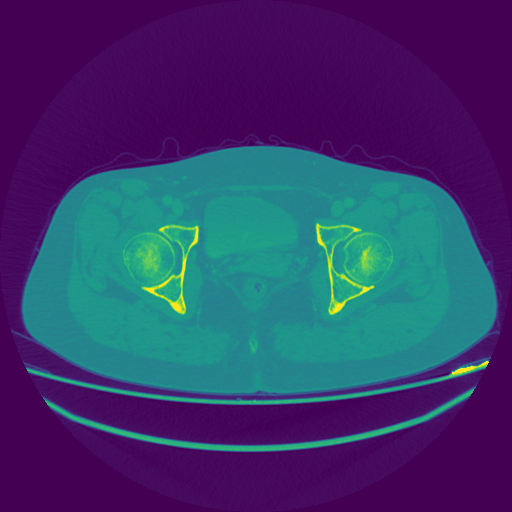
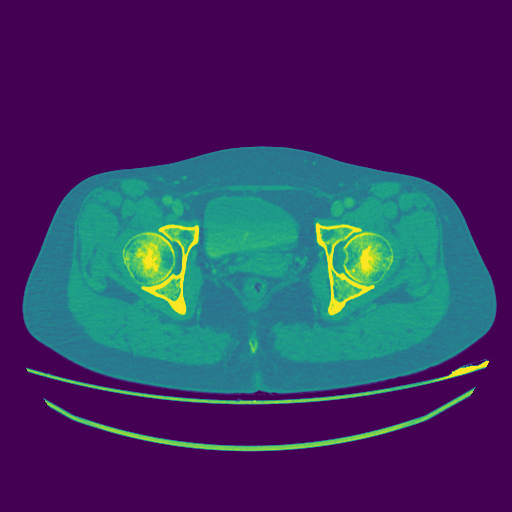
Unet-seg-train is OK

diff --git a/utils/data_loading.py b/utils/data_loading.py
@@ -14,7 +14,6 @@ import numpy as np
 import os
 from skimage.transform import resize
 from PIL import Image
-import Augmentation
 import random
 
 class BasicDataset(Dataset):
@@ -76,7 +75,8 @@ class BasicDataset(Dataset):
 
         img = self.preprocess(img, self.scale, is_mask=False)
         mask = self.preprocess(mask, self.scale, is_mask=True)
-
+        img = img.astype(float)
+        mask = mask.astype(float)
         return {
             'image': torch.as_tensor(img.copy()).float().contiguous(),
             'mask': torch.as_tensor(mask.copy()).long().contiguous()
@@ -86,147 +86,6 @@ class BasicDataset(Dataset):
 class CarvanaDataset(BasicDataset):
     def __init__(self, images_dir, masks_dir, scale=1):
         super().__init__(images_dir, masks_dir, scale, mask_suffix='_mask')
-
-
-
-
-
-
-
-# data loader1
-def default_loader1(path):
-    IMG_PX_SIZE = 224
-    data = sitk.GetArrayFromImage(sitk.ReadImage(path))
-
-    data = resize(data, (IMG_PX_SIZE, IMG_PX_SIZE))
-    data = data[np.newaxis, :]
-    #print(type(data))
-
-    img2 = np.concatenate((data, data, data), axis=0)
-
-    #print(type(img2),img2.shape)
-
-    img2 = Augmentation.standardization(img2)
-    img2 = Augmentation.verticalFlip(img2)
-    img2 = Augmentation.horizontalFlip(img2)
-    #print(data.shape)
-    return img2
-#data loader2
-
-def png_loader(path):
-    img = Image.open(path)
-    return img
-
-class LNM_trainDataset(Dataset):
-    def __init__(self, data_path,root_path,type='normal', transform=None,target_transform=None, loader= default_loader1):
-        data = pd.read_csv(data_path)
-        imgs = []
-        label_1=[]
-        label_0 = []
-
-        for line in range(data.shape[0]):
-            label = data.loc[line, 'Class']
-            if label ==1:
-                label_1.append(line)
-            else:
-                label_0.append(line)
-        random.shuffle(label_0)
-        random.shuffle(label_1)
-        #root_path = '/data/lyj/LNM_tumor/data/image_nrrd-100/'
-        #------- 正常数据加载 -------- #
-        if type=='normal':
-            for index in range(len(label_0)):
-                i = label_0[index]
-                path_part = root_path+data.loc[i,'name']+'.nrrd'
-                label_part = data.loc[i,'Class']
-                #print(label_part,i)
-                imgs.append((path_part,float(label_part)))
-            for index in range(len(label_1)):
-                i = label_1[index]
-                path_part = root_path+data.loc[i,'name']+'.nrrd'
-                label_part = data.loc[i,'Class']
-                #print(label_part, i)
-                imgs.append((path_part,float(label_part)))
-
-        # ------- 过采样训练加载（少数样本重复采集，直到和多数样本数量相同） -------- #
-        if type=='over-sample':
-            print(type)
-            for index in range(len(label_0)):
-                i = label_0[index]
-                path_part = root_path + data.loc[i, 'name'] + '.nrrd'
-                label_part = data.loc[i, 'Class']
-                imgs.append((path_part, float(label_part)))
-
-                ind = index%len(label_1)
-                #print(ind,len())
-                i = label_1[ind]
-                path_part = root_path + data.loc[i, 'name'] + '.nrrd'
-                label_part = data.loc[i, 'Class']
-                imgs.append((path_part, float(label_part)))
-
-        # ------- 欠采样训练加载（不完全采集多数样本，使得多数样本数量相同） -------- #
-        if type=='under-sample':
-            for index in range(len(label_1)):
-                i = label_0[index]
-                path_part = root_path + data.loc[i, 'name'] + '.nrrd'
-                label_part = data.loc[i, 'Class']
-                imgs.append((path_part, float(label_part)))
-
-                ind = index
-                i = label_1[ind]
-                path_part = root_path + data.loc[i, 'name'] + '.nrrd'
-                label_part = data.loc[i, 'Class']
-                imgs.append((path_part, float(label_part)))
-
-        self.imgs = imgs
-        self.transform = transform
-        self.target_transform = target_transform
-        self.loader = loader
-
-    def __getitem__(self, index):
-        img_path,label = self.imgs[index]
-        img = self.loader(img_path)
-        #if label==1:
-        if self.transform is not None:
-            img = self.transform(img)
-            #print(type(img))
-        return img,int(label)
-
-    def __len__(self):
-        return len(self.imgs)
-
-
-
-
-class LNM_testDataset(Dataset):
-    def __init__(self, data_path, root_path, transform=None, target_transform=None, loader= default_loader1):
-        data = pd.read_csv(data_path)
-        #f = open('/data/lyj/LMN07/result/check.csv','a+')
-        #f.write('name,label'+'\n')
-        imgs = []
-        #root_path = '/data/lyj/LNM_tumor/data/image_nrrd-100'
-        for i in range(data.shape[0]):
-            path_part = root_path+str(data.loc[i,'name'])+'.nrrd'
-            label_part = data.loc[i,'Class']
-            imgs.append((path_part,float(label_part)))
-            #f.write(path_part+','+str(label_part)+'\n')
-        #f.close()
-        self.imgs = imgs
-        self.transform = transform
-        self.target_transform = target_transform
-        self.loader = loader
-
-    def __getitem__(self, index):
-        img_path,label = self.imgs[index]
-        img = self.loader(img_path)
-        #if label==1:
-        if self.transform is not None:
-            img = self.transform(img)
-            #print(type(img))
-        return img,int(label)
-
-    def __len__(self):
-        return len(self.imgs)
 
 
 class LNM_Dataset(BasicDataset):
@@ -252,9 +111,15 @@ class LNM_Dataset(BasicDataset):
         img_ndarray = np.asarray(pil_img)
 
         if not is_mask:
-            #####归一化到0-1  尝试范围
-            # img_ndarray = img_ndarray / 255
-            img_ndarray = img_ndarray / img_ndarray.max()
+            #####归一化到0-1  尝试范围  +-512
+            img_ndarray = img_ndarray - 1024 
+            img_ndarray[img_ndarray < -512] = -512.
+            img_ndarray[img_ndarray > 512] = 512.
+            img_ndarray = img_ndarray + 512. 
+            img_ndarray = img_ndarray / 1024
+
+            #### 范围-1024~+1024
+            # img_ndarray = img_ndarray / img_ndarray.max()
             
             if img_ndarray.ndim == 2:
                 img_ndarray = img_ndarray[np.newaxis, ...]

diff --git a/train.py b/train.py
@@ -5,7 +5,7 @@ import sys
 import tempfile
 from pathlib import Path
 import os
-os.environ['CUDA_VISIBLE_DEVICES'] = '0,1,2,3'
+os.environ['CUDA_VISIBLE_DEVICES'] = '2,3'
 import torch
 import torch.nn as nn
 import torch.nn.functional as F
@@ -14,8 +14,7 @@ from torch import optim
 from torch.utils.tensorboard import SummaryWriter
 from torch.utils.data import DataLoader, random_split
 from tqdm import tqdm
-
-
+import time
 from utils.data_loading import BasicDataset, CarvanaDataset
 from utils.dice_score import dice_loss
 from unet import UNet
@@ -24,37 +23,11 @@ import torch.distributed as dist
 from multi_train_utils.distributed_utils import init_distributed_mode, dist, cleanup
 from multi_train_utils.train_eval_utils import train_one_epoch, evaluate
 
-from utils.data_loading import LNM_trainDataset, LNM_testDataset
+from utils.data_loading import LNM_Dataset
 
-dir_img = Path('/data/lsy/carvana/imgs/train/')
-dir_mask = Path('/data/lsy/carvana/masks/train_masks/')
+# dir_img = Path('/data/lsy/carvana/imgs/train/')
+# dir_mask = Path('/data/lsy/carvana/masks/train_masks/')
 dir_checkpoint = Path('./checkpoints/')
-
-
-
-def data_loader(root_path, BATCH_SIZE):
-    train_data = LNM_trainDataset(r"./train_8_1.csv", root_path, 'over-sample',
-                                  transform=None)
-    trainloader = DataLoader(dataset=train_data, batch_size=BATCH_SIZE, shuffle=True)
-
-    training = LNM_testDataset(r"./train_8_1.csv", root_path, transform=None)
-    trainingloader = DataLoader(dataset=training, batch_size=BATCH_SIZE)
-
-    valid_data = LNM_testDataset(r"./test_8_1.csv", root_path, transform=None)
-    validloader = DataLoader(dataset=valid_data, batch_size=BATCH_SIZE)
-    # 6中心的外部验证
-    test_data = LNM_testDataset(r'./exter1.csv', root_path, transform=None)
-    testloader = DataLoader(dataset=test_data, batch_size=BATCH_SIZE)
-
-    # 2个中心的外部验证
-    exter_data = LNM_testDataset(r'./exter1.csv', root_path, transform=None)
-    exterloader = DataLoader(dataset=exter_data, batch_size=BATCH_SIZE)
-    # 4个中心的外部验证
-    exter_data2 = LNM_testDataset(r'./exter2.csv', root_path, transform=None)
-    exterloader2 = DataLoader(dataset=exter_data2, batch_size=BATCH_SIZE)
-
-    return trainloader,trainingloader,validloader,testloader,exterloader,exterloader2
-
 
 def train_net(net,
               device,
@@ -66,15 +39,21 @@ def train_net(net,
               img_scale: float = 0.5,
               amp: bool = False):
     # 1. Create dataset
-    try:
-        dataset = CarvanaDataset(dir_img, dir_mask, img_scale)
-    except (AssertionError, RuntimeError):
-        dataset = BasicDataset(dir_img, dir_mask, img_scale)
+    # try:
+    #     dataset = CarvanaDataset(dir_img, dir_mask, img_scale)
+    # except (AssertionError, RuntimeError):
+    #     dataset = BasicDataset(dir_img, dir_mask, img_scale)
 
     # 2. Split into train / validation partitions
-    n_val = int(len(dataset) * val_percent)
-    n_train = len(dataset) - n_val
-    train_set, val_set = random_split(dataset, [n_train, n_val], generator=torch.Generator().manual_seed(0))
+    # n_val = int(len(dataset) * val_percent)
+    # n_train = len(dataset) - n_val
+    # train_set, val_set = random_split(dataset, [n_train, n_val], generator=torch.Generator().manual_seed(0))
+
+    train_set = LNM_Dataset('train_8_1.csv')
+    val_set = LNM_Dataset('validation_8_1.csv')
+
+    n_train = len(train_set)
+    n_val = len(val_set)
 
     ###Distributed
     train_sampler = torch.utils.data.distributed.DistributedSampler(train_set)
@@ -171,9 +150,10 @@ def train_net(net,
 
     # 删除临时缓存文件
     if rank == 0:
+        time_str = str(time.strftime("%Y-%m-%d-%H-%M-%S", time.localtime()))
         if os.path.exists(checkpoint_path) is True:
             os.remove(checkpoint_path)
-        torch.save(net.state_dict(), 'MODEL.pth')
+        torch.save(net.state_dict(), 'MODEL_' + time_str + '.pth')
 
     cleanup()
 
@@ -226,7 +206,7 @@ if __name__ == '__main__':
 
 
 
-    net = UNet(n_channels=3, n_classes=args.classes, bilinear=args.bilinear)
+    net = UNet(n_channels=1, n_classes=args.classes, bilinear=args.bilinear)
     if rank ==0:
         logging.info(f'Network:\n'
                     f'\t{net.n_channels} input channels\n'

diff --git a/evaluate.py b/evaluate.py
@@ -1,0 +1,42 @@
+import torch
+import torch.nn.functional as F
+from tqdm import tqdm
+
+from utils.dice_score import multiclass_dice_coeff, dice_coeff
+
+
+def evaluate(net, dataloader, device):
+    net.eval()
+    num_val_batches = len(dataloader)
+    dice_score = 0
+
+    # iterate over the validation set
+    for batch in tqdm(dataloader, total=num_val_batches, desc='Validation round', unit='batch', leave=False):
+        image, mask_true = batch['image'], batch['mask']
+        # move images and labels to correct device and type
+        image = image.to(device=device, dtype=torch.float32)
+        mask_true = mask_true.to(device=device, dtype=torch.long)
+        mask_true = F.one_hot(mask_true, net.n_classes).permute(0, 3, 1, 2).float()
+
+        with torch.no_grad():
+            # predict the mask
+            mask_pred = net(image)
+
+            # convert to one-hot format
+            if net.n_classes == 1:
+                mask_pred = (F.sigmoid(mask_pred) > 0.5).float()
+                # compute the Dice score
+                dice_score += dice_coeff(mask_pred, mask_true, reduce_batch_first=False)
+            else:
+                mask_pred = F.one_hot(mask_pred.argmax(dim=1), net.n_classes).permute(0, 3, 1, 2).float()
+                # compute the Dice score, ignoring background
+                dice_score += multiclass_dice_coeff(mask_pred[:, 1:, ...], mask_true[:, 1:, ...], reduce_batch_first=False)
+
+           
+
+    net.train()
+
+    # Fixes a potential division by zero error
+    if num_val_batches == 0:
+        return dice_score
+    return dice_score / num_val_batches

diff --git a/multi_train_utils/train_eval_utils.py b/multi_train_utils/train_eval_utils.py
@@ -25,7 +25,7 @@ def train_one_epoch(model, optimizer, data_loader, device, epoch, amp, global_st
         true_masks = data['mask']
 
         assert images.shape[1] == model.module.n_channels, \
-                    f'Network has been defined with {model.n_channels} input channels, ' \
+                    f'Network has been defined with {model.module.n_channels} input channels, ' \
                     f'but loaded images have {images.shape[1]} channels. Please check that ' \
                     'the images are loaded correctly.'
 
